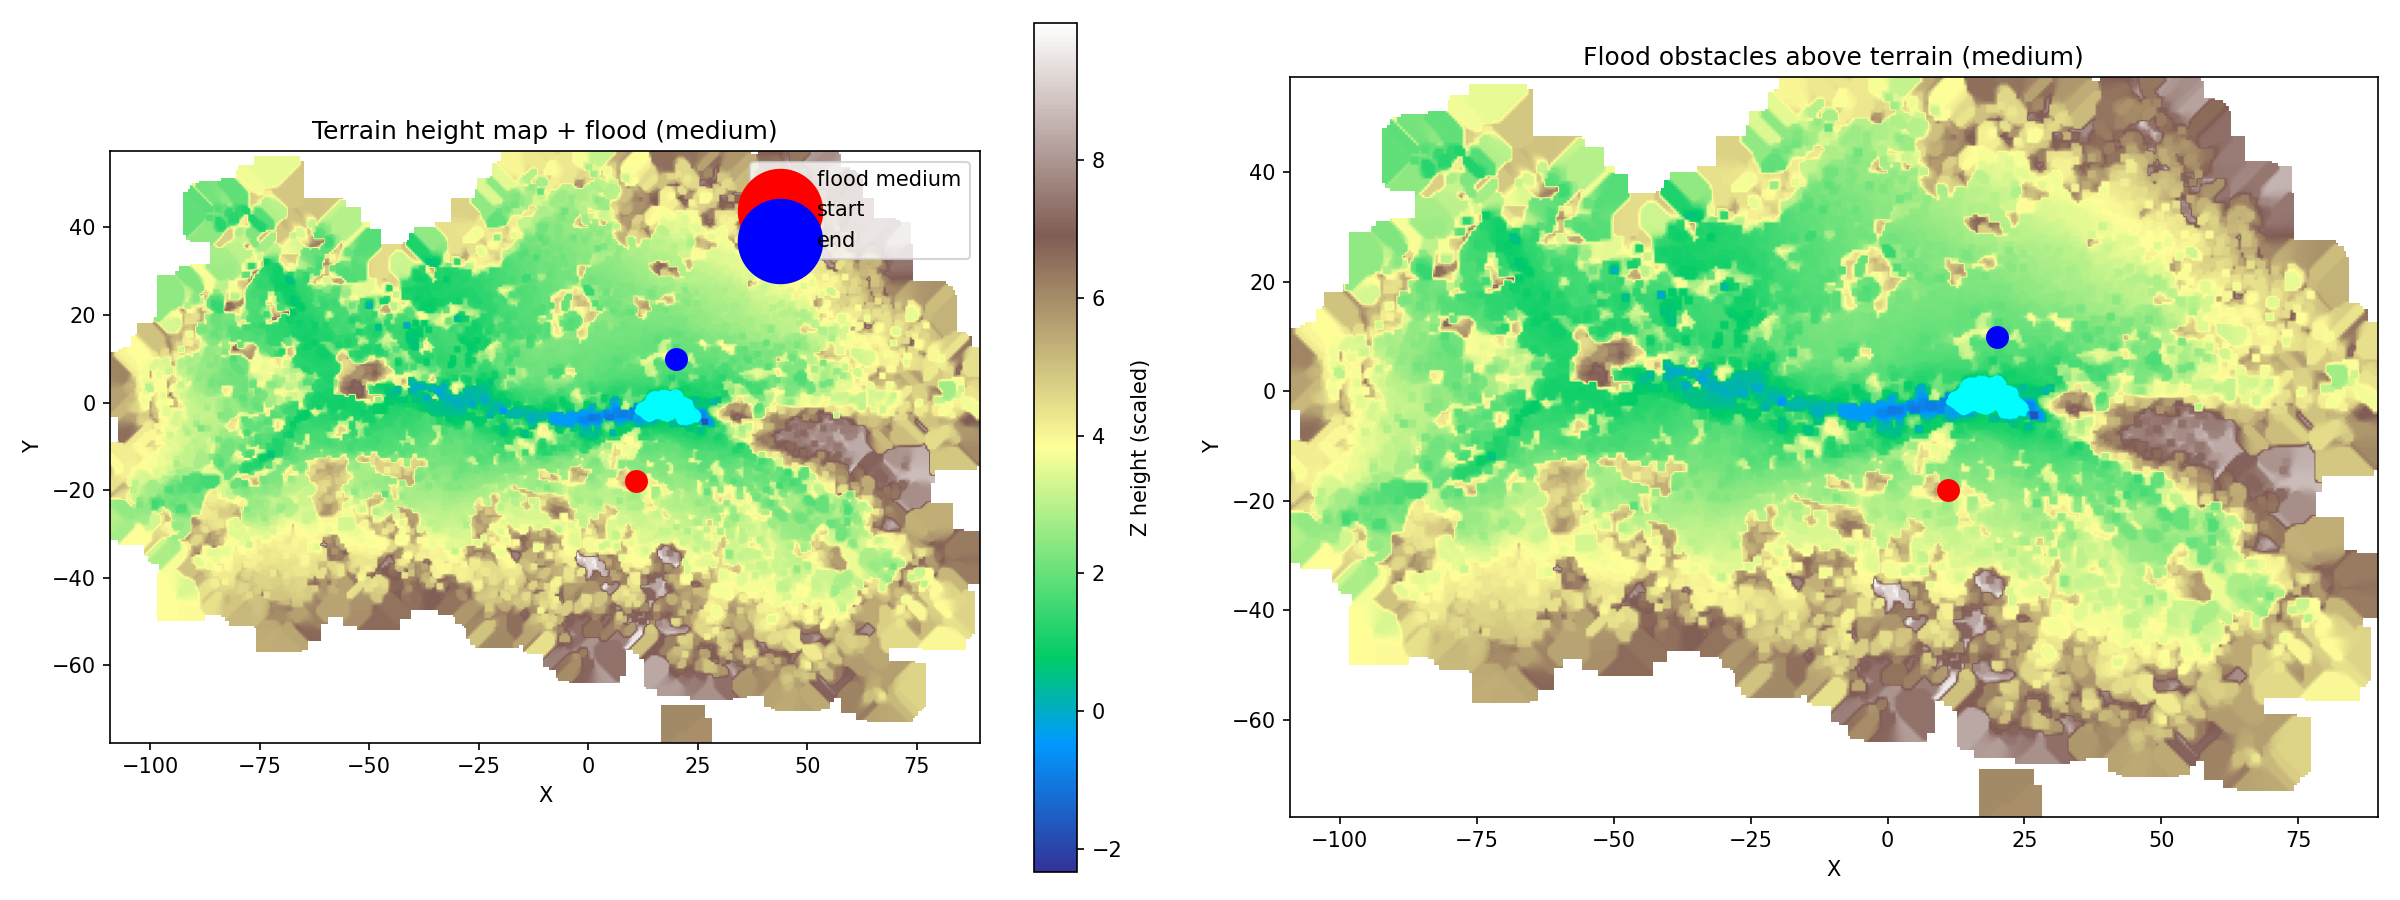
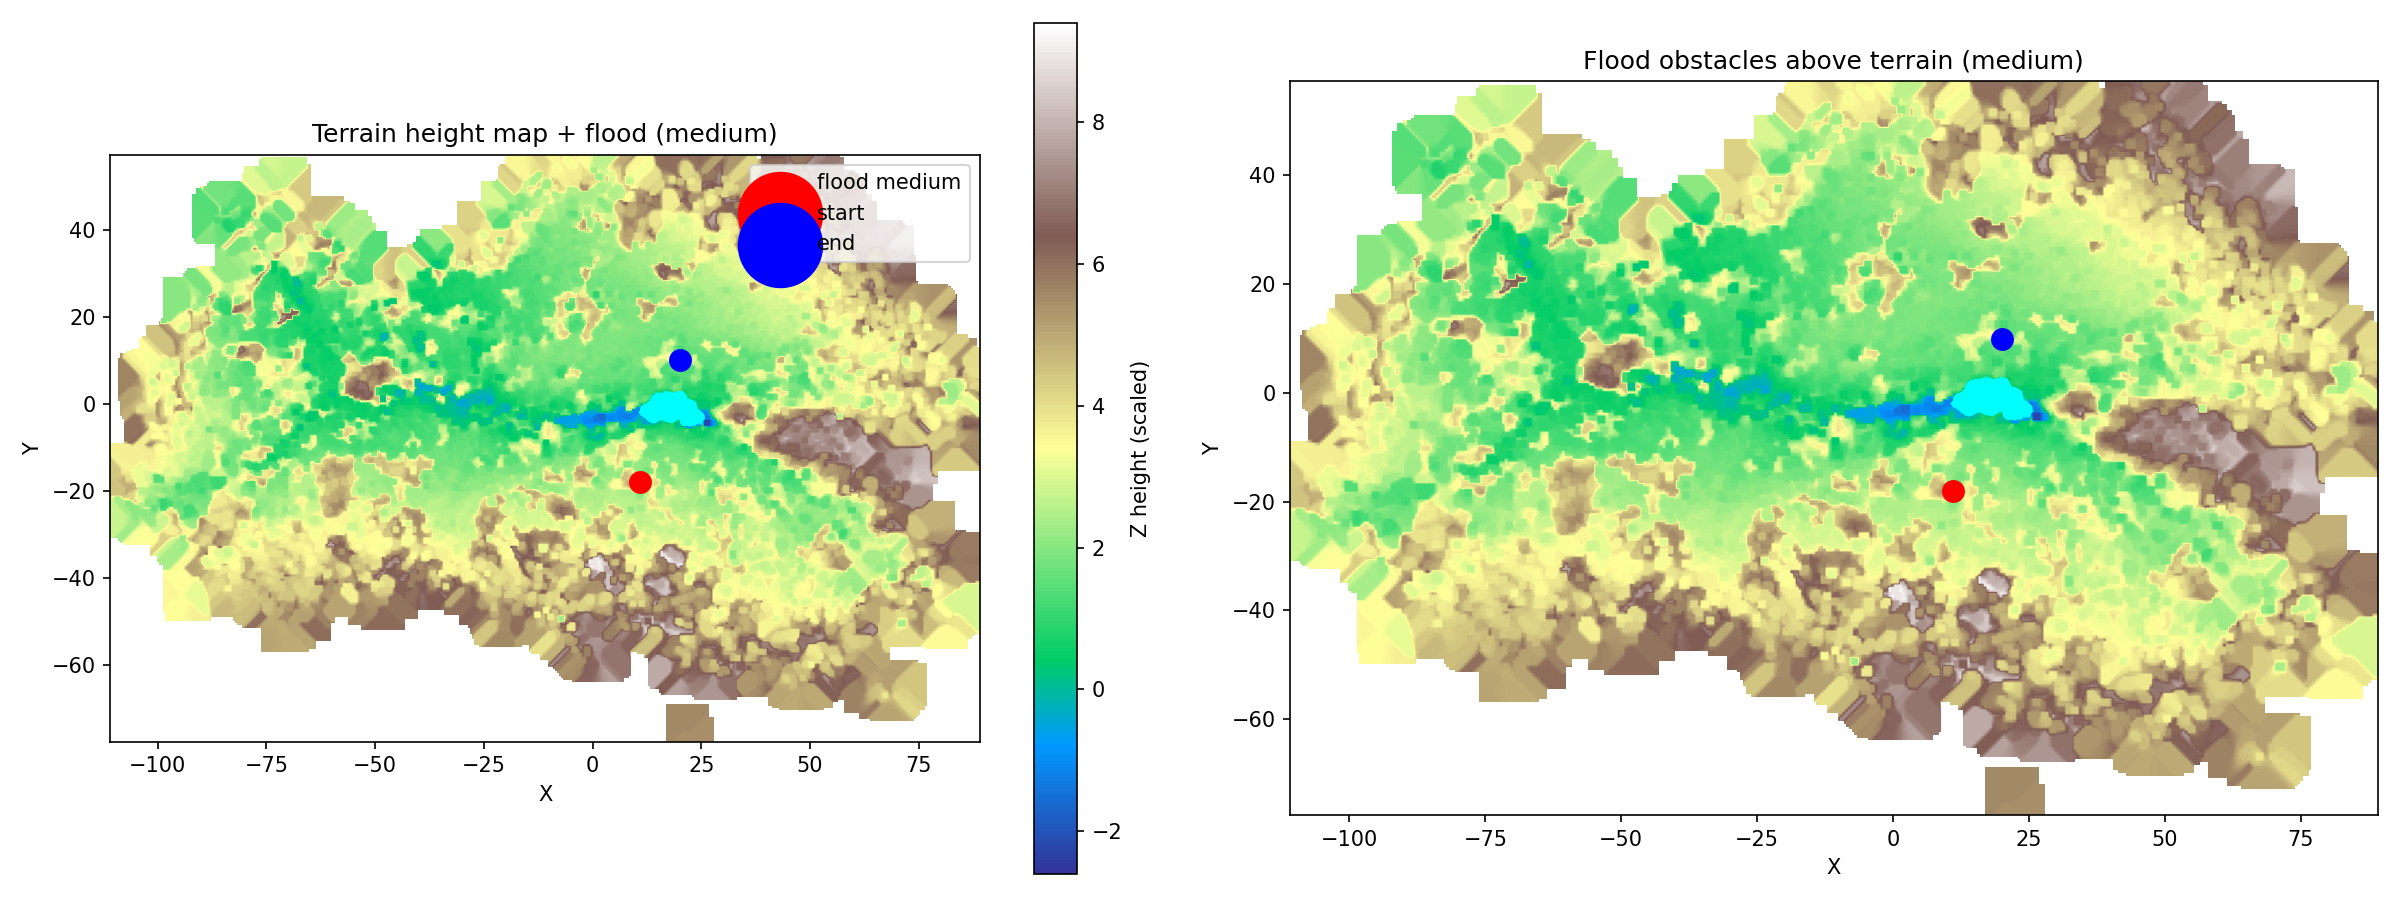
2.5D Astar

diff --git a/foci/optim/initial_guess.py b/foci/optim/initial_guess.py
@@ -17,33 +17,92 @@ def linear_interpolation(start_point, end_point, n_control_points):
     return control_points
 
 class BasicAStar(AStar):
-    def __init__(self, bounds, occ_map, step_size = 1.0):
+    def __init__(self, bounds, occ_map, step_size=1.0,
+                 height_map=None, hm_x_min=0.0, hm_y_min=0.0, hm_cell=1.0,
+                 clearance=0.0, z_band=0.2):
         self.bounds = bounds
         self.occ_map = occ_map
         self.step_size = step_size
+        # Terrain-following: when height_map is supplied the valid Z at every
+        # (x, y) is the local band [terrain_z + clearance, terrain_z + clearance + z_band]
+        # instead of the global bounds[2] interval.
+        self.height_map = height_map
+        self.hm_x_min = hm_x_min
+        self.hm_y_min = hm_y_min
+        self.hm_cell = hm_cell
+        self.clearance = clearance
+        self.z_band = z_band
+
+    def _terrain_z(self, x, y):
+        """Return local terrain height at world position (x, y), or None if unavailable."""
+        nx, ny = self.height_map.shape
+        xi = int(np.clip((x - self.hm_x_min) / self.hm_cell, 0, nx - 1))
+        yi = int(np.clip((y - self.hm_y_min) / self.hm_cell, 0, ny - 1))
+        h = self.height_map[xi, yi]
+        return float(h) if not np.isnan(h) else None
 
     def neighbors(self, n):
         neighbors = []
-        for dx in [-self.step_size, 0, self.step_size]:
-            for dy in [-self.step_size, 0, self.step_size]:
-                for dz in [-self.step_size, 0, self.step_size]:
-                    if dx == 0 and dy == 0 and dz == 0:
+
+        if self.height_map is not None:
+            # 2.5D terrain-following: XY search, Z constrained to a band above
+            # the local terrain surface [terrain_z + clearance,
+            #                            terrain_z + clearance + z_band].
+            # The dz step is half the band so A* samples the bottom and top of
+            # the band — enough vertical freedom to get past grid-alignment
+            # mismatches without flying above flood obstacles.
+            dz_step = max(self.z_band / 2.0, self.step_size / 4.0)
+
+            for dx in [-self.step_size, 0, self.step_size]:
+                for dy in [-self.step_size, 0, self.step_size]:
+                    if dx == 0 and dy == 0:
                         continue
                     x2 = n[0] + dx
                     y2 = n[1] + dy
-                    z2 = n[2] + dz
+
                     if x2 < self.bounds[0][0] or x2 >= self.bounds[0][1]:
                         continue
                     if y2 < self.bounds[1][0] or y2 >= self.bounds[1][1]:
                         continue
-                    if z2 < self.bounds[2][0] or z2 >= self.bounds[2][1]:
-                        continue
 
-                    if self.occ_map.check_if_included(o3d.utility.Vector3dVector(np.array([[x2, y2, z2]])))[0]:
+                    tz = self._terrain_z(x2, y2)
+                    if tz is None:
                         continue
+                    z_lo = tz + self.clearance
+                    z_hi = tz + self.clearance + self.z_band
 
-                    neighbors.append((x2, y2, z2))
-        
+                    z2 = z_lo
+                    while z2 <= z_hi + 1e-9:
+                        if not self.occ_map.check_if_included(
+                                o3d.utility.Vector3dVector(np.array([[x2, y2, z2]])))[0]:
+                            neighbors.append((x2, y2, z2))
+                        z2 += dz_step
+
+        else:
+            # 3D search with static global Z bounds (backward-compatible fallback
+            # for callers that do not supply a height map).
+            for dx in [-self.step_size, 0, self.step_size]:
+                for dy in [-self.step_size, 0, self.step_size]:
+                    for dz in [-self.step_size, 0, self.step_size]:
+                        if dx == 0 and dy == 0 and dz == 0:
+                            continue
+                        x2 = n[0] + dx
+                        y2 = n[1] + dy
+                        z2 = n[2] + dz
+
+                        if x2 < self.bounds[0][0] or x2 >= self.bounds[0][1]:
+                            continue
+                        if y2 < self.bounds[1][0] or y2 >= self.bounds[1][1]:
+                            continue
+                        if z2 < self.bounds[2][0] or z2 >= self.bounds[2][1]:
+                            continue
+
+                        if self.occ_map.check_if_included(
+                                o3d.utility.Vector3dVector(np.array([[x2, y2, z2]])))[0]:
+                            continue
+
+                        neighbors.append((x2, y2, z2))
+
         return neighbors
                     
 
@@ -55,11 +114,16 @@ class BasicAStar(AStar):
         return np.linalg.norm(np.array(current) - np.array(goal))
     
     def is_goal_reached(self, current, goal):
+        if self.height_map is not None:
+            # In 2.5D mode Z is terrain-driven so only XY proximity matters.
+            return np.linalg.norm(np.array(current[:2]) - np.array(goal[:2])) < self.step_size
         return np.linalg.norm(np.array(current) - np.array(goal)) < 0.5
     
 
 
-def astar_path_spline_fit(start_point, end_point, means, voxel_size = 1.0, num_control_points=20, z_range = None):
+def astar_path_spline_fit(start_point, end_point, means, voxel_size=0.25, num_control_points=20, z_range=None,
+                           height_map=None, hm_x_min=0.0, hm_y_min=0.0, hm_cell=1.0,
+                           clearance=0.0, z_band=0.2):
     min_x = min(means[:,0].min(), start_point[0], end_point[0])
     max_x = max(means[:,0].max(), start_point[0], end_point[0])
     min_y = min(means[:,1].min(), start_point[1], end_point[1])
@@ -74,28 +138,48 @@ def astar_path_spline_fit(start_point, end_point, means, voxel_size = 1.0, num_c
     spread_y = max_y - min_y
     spread_z = max_z - min_z
 
-    bounds = [[min_x - 0.2 * spread_x, max_x + 0.2 * spread_x], [min_y - 0.2 * spread_y, max_y + 0.2 * spread_y], [min_z - 0.2 * spread_z, max_z + 0.2 * spread_z]]
-    if z_range is not None:
-        bounds[2] = [z_range[0], z_range[1]] 
+    bounds = [[min_x - 0.2 * spread_x, max_x + 0.2 * spread_x],
+              [min_y - 0.2 * spread_y, max_y + 0.2 * spread_y],
+              [min_z - 0.2 * spread_z, max_z + 0.01 * spread_z]]
+    # bounds[2] (Z) is only used by the static fallback path (height_map=None).
+    # When height_map is provided A* is 2.5D and Z is terrain-driven; z_range is ignored.
+    if height_map is None and z_range is not None:
+        bounds[2] = [z_range[0], z_range[1]]
 
     pcd = o3d.geometry.PointCloud()
     pcd.points = o3d.utility.Vector3dVector(means)
     voxel_grid = o3d.geometry.VoxelGrid.create_from_point_cloud(pcd,
                                                             voxel_size=voxel_size)
 
-    astar_path_finder = BasicAStar(bounds, voxel_grid, step_size=voxel_size)
+    astar_path_finder = BasicAStar(
+        bounds, voxel_grid, step_size=voxel_size,
+        height_map=height_map, hm_x_min=hm_x_min,
+        hm_y_min=hm_y_min, hm_cell=hm_cell,
+        clearance=clearance, z_band=z_band,
+    )
 
     start = (start_point[0], start_point[1], start_point[2])
     end = (end_point[0], end_point[1], end_point[2])
+
+    start_xyz = np.array([[start_point[0], start_point[1], start_point[2]]], dtype=float)
+    end_xyz   = np.array([[end_point[0], end_point[1], end_point[2]]], dtype=float)
+
+    start_occ = voxel_grid.check_if_included(o3d.utility.Vector3dVector(start_xyz))[0]
+    end_occ   = voxel_grid.check_if_included(o3d.utility.Vector3dVector(end_xyz))[0]
+
+    print("Start occupied?", start_occ, "start =", start_xyz[0])
+    print("End occupied?  ", end_occ,   "end   =", end_xyz[0])
     path = astar_path_finder.astar(start, end)
 
     if path is None:
         raise ValueError("No path found")
 
     path = [p for p in path]
-
-    path_arr = np.array(path)
-
+    path_arr = np.array(path, dtype=float)
+    # path_arr[0] = start_point
+    # path_arr[-1] = end_point
+    print("Astar path:", path_arr)
+    
     num_samples = len(path_arr)
     control_points = cas.SX.sym('control_points', num_control_points, 3)
     dec_vars = cas.vertcat(cas.vec(control_points))

diff --git a/demos/hillcounty_flood_planning.py b/demos/hillcounty_flood_planning.py
@@ -31,12 +31,12 @@ FLOOD_PLY   = os.path.join(LOCAL, f'data/hillcountry_flood_{FLOOD_LEVEL}.ply')
 # ── 1. Terrain (identical pipeline to hillcounty_terrain.py) ─────────────────
 print("Loading terrain...")
 means, covs, colors, opacities = extract_splat_data(TERRAIN_PLY)
-means, covs, colors, opacities = filter_floaters(
-    means, covs, colors, opacities,
-    opacity_threshold=0.3,
-    density_radius=0.05,
-    min_neighbors=5,
-)
+# means, covs, colors, opacities = filter_floaters(
+#     means, covs, colors, opacities,
+#     opacity_threshold=0.3,
+#     density_radius=0.05,
+#     min_neighbors=5,
+# )
 
 ground_z = np.percentile(means[:, 2], 6)
 print(f"Ground z (pre-scale): {ground_z:.4f}")
@@ -65,15 +65,22 @@ print(f"Flat Gaussians: {flat_mask.sum()} / {len(means)}")
 height_map, hm_x_min, hm_y_min, hm_cell = build_height_map(means[flat_mask], cell_size=0.5)
 print(f"Height map: {height_map.shape}")
 
-# nav_z = terrain height at the start/end midpoint + small clearance.
-# Using a local query instead of the global median keeps the starting height
-# grounded to where the robot actually begins and ends.
-clearance = 0.05
+# Two separate height parameters:
+#   obs_threshold — a Gaussian this far above the local terrain surface is an
+#                   obstacle (trees, walls, flood).  Kept small so low vegetation
+#                   is included.
+#   clearance     — the robot's navigation height above terrain.  Must satisfy
+#                   clearance > obs_threshold + voxel_size + margin so the robot
+#                   flies above the top of the obstacle voxels and never starts
+#                   inside one.  (voxel_size = 0.25 → need clearance > ~0.6)
+obs_threshold = 0.3   # scaled units
+clearance     = 1   # scaled units (navigates ~50 cm above terrain, ~25 cm above tallest obs voxel top)
+
 start_z_terrain = query_height(height_map, hm_x_min, hm_y_min, hm_cell, start_xy[0], start_xy[1])
 end_z_terrain   = query_height(height_map, hm_x_min, hm_y_min, hm_cell, end_xy[0],   end_xy[1])
 nav_z = 0.5 * (start_z_terrain + end_z_terrain) + clearance
 print(f"Terrain Z  — start: {start_z_terrain:.3f}, end: {end_z_terrain:.3f}")
-print(f"nav_z: {nav_z:.3f}  (z_range will be set after flood is loaded)")
+print(f"obs_threshold: {obs_threshold}, clearance: {clearance}, nav_z: {nav_z:.3f}")
 
 # ── 2. Load flood data and build flood obstacle mask ─────────────────────────
 print(f"\nLoading flood PLY: {FLOOD_LEVEL}...")
@@ -131,16 +138,16 @@ print(f"Flood Gaussians kept as nav-obstacles: {len(flood_means_nav)}")
 
 # ── 3. Build obstacle mask ────────────────────────────────────────────────────
 
-# Terrain Gaussians: obstacle if above local ground + clearance
+# Terrain Gaussians: obstacle if above local ground + obs_threshold
 xi_all = np.clip(((means[:, 0] - hm_x_min) / hm_cell).astype(int), 0, height_map.shape[0] - 1)
 yi_all = np.clip(((means[:, 1] - hm_y_min) / hm_cell).astype(int), 0, height_map.shape[1] - 1)
 local_ground = height_map[xi_all, yi_all]
-obstacle_mask = means[:, 2] > local_ground + clearance
+obstacle_mask = means[:, 2] > local_ground + obs_threshold
 
 print(f"Terrain obstacles: {obstacle_mask.sum()}, flood nav-obstacles: {len(flood_means_nav)}")
 
 # Corridor crop
-corridor = 40
+corridor = 20
 x_lo = min(start_xy[0], end_xy[0]) - corridor
 x_hi = max(start_xy[0], end_xy[0]) + corridor
 y_lo = min(start_xy[1], end_xy[1]) - corridor
@@ -155,15 +162,9 @@ fl_in_corridor = (
     (flood_means_nav[:, 1] > y_lo) & (flood_means_nav[:, 1] < y_hi)
 )
 
-# z-range should just follow terrain variation for a ground robot
-xi_c = np.clip(((means[in_corridor, 0] - hm_x_min) / hm_cell).astype(int), 0, height_map.shape[0] - 1)
-yi_c = np.clip(((means[in_corridor, 1] - hm_y_min) / hm_cell).astype(int), 0, height_map.shape[1] - 1)
-corr_z = height_map[xi_c, yi_c]
-
-z_lo = float(np.nanmin(corr_z)) + clearance - 0.1
-z_hi = float(np.nanmax(corr_z)) + clearance + 0.2
-z_range = (z_lo, z_hi)
-print(f"z_range: ({z_lo:.3f}, {z_hi:.3f})")
+# No global z_range: A* follows terrain dynamically via the height_map band,
+# and the post-processing step snaps the path Z to terrain + clearance.
+z_range = None
 
 obstacle_means = np.vstack([
     means[obstacle_mask & in_corridor],
@@ -211,22 +212,32 @@ print(f"Saved flood_planning_{FLOOD_LEVEL}.png")
 plt.close()
 
 # ── 5. Plan ───────────────────────────────────────────────────────────────────
-robot_cov = np.eye(3) * 0.001
+robot_cov = np.eye(3) * 0.0001
 planner = TerrainPlanner(obstacle_means, obstacle_covs, robot_cov,
                          num_control_points=10, num_samples=50, z_range=z_range)
 
 start = [start_xy[0], start_xy[1], start_z_terrain + clearance, np.pi/2]
 end   = [end_xy[0],   end_xy[1],   end_z_terrain   + clearance, np.pi/2]
-opt_curve, astar = planner.plan(start, end)
+
+
+opt_curve, astar = planner.plan(
+    start, end,
+    height_map=height_map,
+    hm_x_min=hm_x_min,
+    hm_y_min=hm_y_min,
+    hm_cell=hm_cell,
+    clearance=clearance,
+    z_band=0.15,   # robot navigates within 15 cm band above local terrain
+)
 
 print(f"A* path points: {len(astar)}")
 
 for i in range(len(opt_curve)):
     x, y = opt_curve[i, 0], opt_curve[i, 1]
-    opt_curve[i, 2] = query_height(height_map, hm_x_min, hm_y_min, hm_cell, x, y) + 0.05
+    opt_curve[i, 2] = query_height(height_map, hm_x_min, hm_y_min, hm_cell, x, y) + clearance
 
 # ── 6. Visualise ──────────────────────────────────────────────────────────────
-margin = 10
+margin = 30
 x_min_v, y_min_v = astar[:, :2].min(axis=0) - margin
 x_max_v, y_max_v = astar[:, :2].max(axis=0) + margin
 crop_mask = (

diff --git a/foci/planners/planner_terrain.py b/foci/planners/planner_terrain.py
@@ -56,9 +56,18 @@ class TerrainPlanner():
             num_samples=num_samples,
             z_range=z_range)
 
-    def plan(self,start_pos, end_pos):
+    def plan(self, start_pos, end_pos,
+             height_map=None, hm_x_min=0.0, hm_y_min=0.0, hm_cell=1.0,
+             clearance=0.0, z_band=0.2):
 
-        init_guess = astar_path_spline_fit(start_pos, end_pos, self.obstacle_positions, num_control_points=self.num_control_points, voxel_size=0.25, z_range=self.z_range)
+        init_guess = astar_path_spline_fit(
+            start_pos, end_pos, self.obstacle_positions,
+            num_control_points=self.num_control_points,
+            voxel_size=0.25, z_range=self.z_range,
+            height_map=height_map, hm_x_min=hm_x_min,
+            hm_y_min=hm_y_min, hm_cell=hm_cell,
+            clearance=clearance, z_band=z_band,
+        )
 
         #reshape initial spline into spline control points and samples the resulting curve
         #each control point consists of (x,y,z,theta)

diff --git a/foci/optim/solvers_terrain.py b/foci/optim/solvers_terrain.py
@@ -69,8 +69,8 @@ def create_solver(num_control_points,
 
     # Weighing factor for cost
     w_0 = 0.1 # jerk cost
-    w_1 = 40 # obstacle cost
-    w_2 = 40 # goal cost
+    w_1 = 100 # obstacle cost
+    w_2 = 100 # goal cost
     w_head = 1
     
     # define helpful mappings